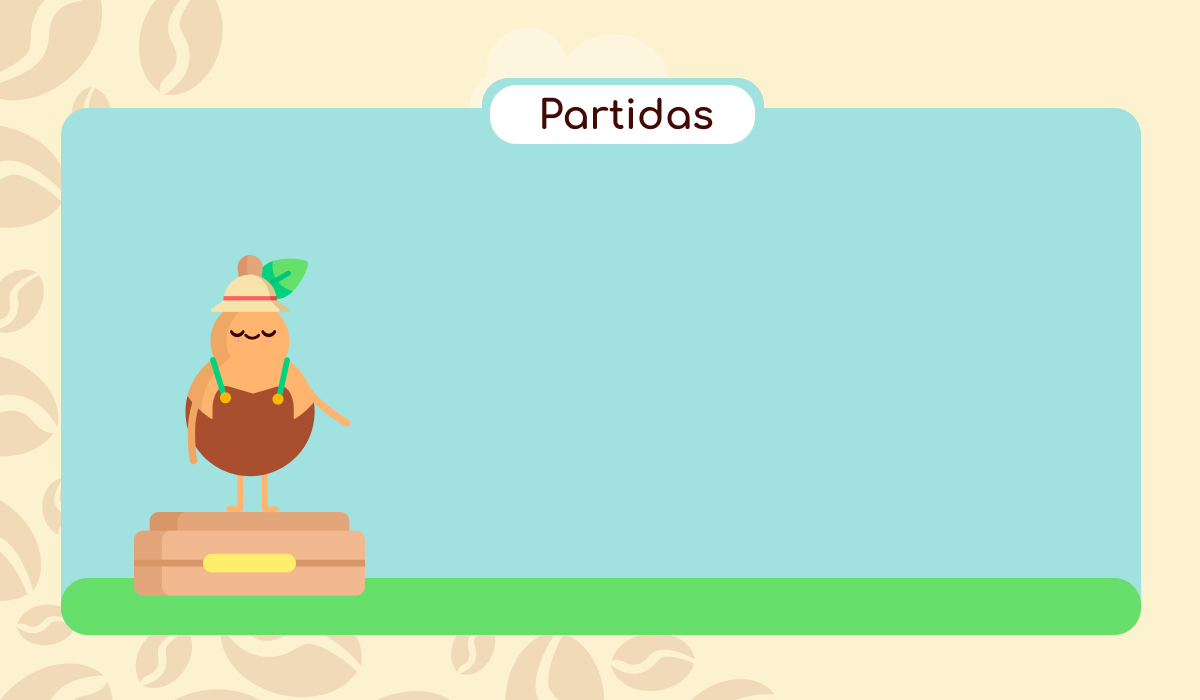
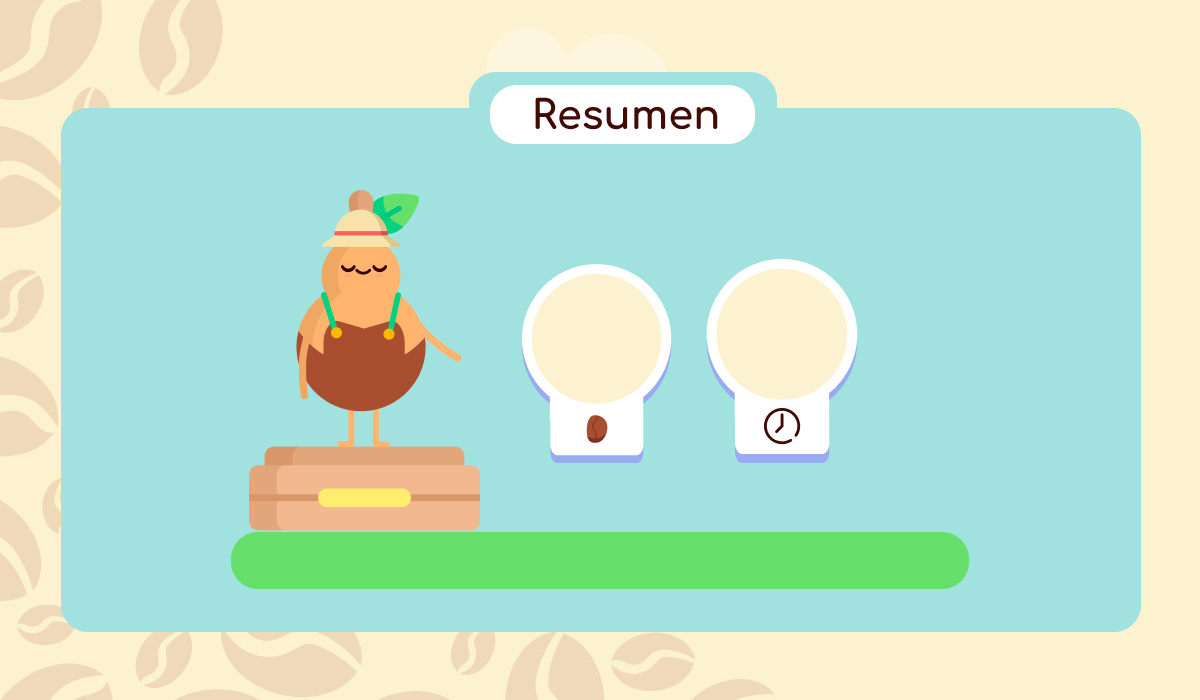
resultados de las partidas visualizacion

Changed region(s): [[0.0308, 0.27, 0.9558, 0.93], [0.4317, 0.36, 0.74, 0.66], [0.37, 0.09, 0.6475, 0.18]]

diff --git a/src/modelo/Partida.java b/src/modelo/Partida.java
@@ -2,4 +2,27 @@ package modelo;
 
 public class Partida {
 
+	private String time;
+	private String puntaje;
+
+	public Partida(String time, String puntaje) {
+		this.time = time;
+		this.puntaje = puntaje;
+	}
+
+	public String getTime() {
+		return time;
+	}
+
+	public void setTime(String time) {
+		this.time = time;
+	}
+
+	public String getPuntaje() {
+		return puntaje;
+	}
+
+	public void setPuntaje(String puntaje) {
+		this.puntaje = puntaje;
+	}
 }
